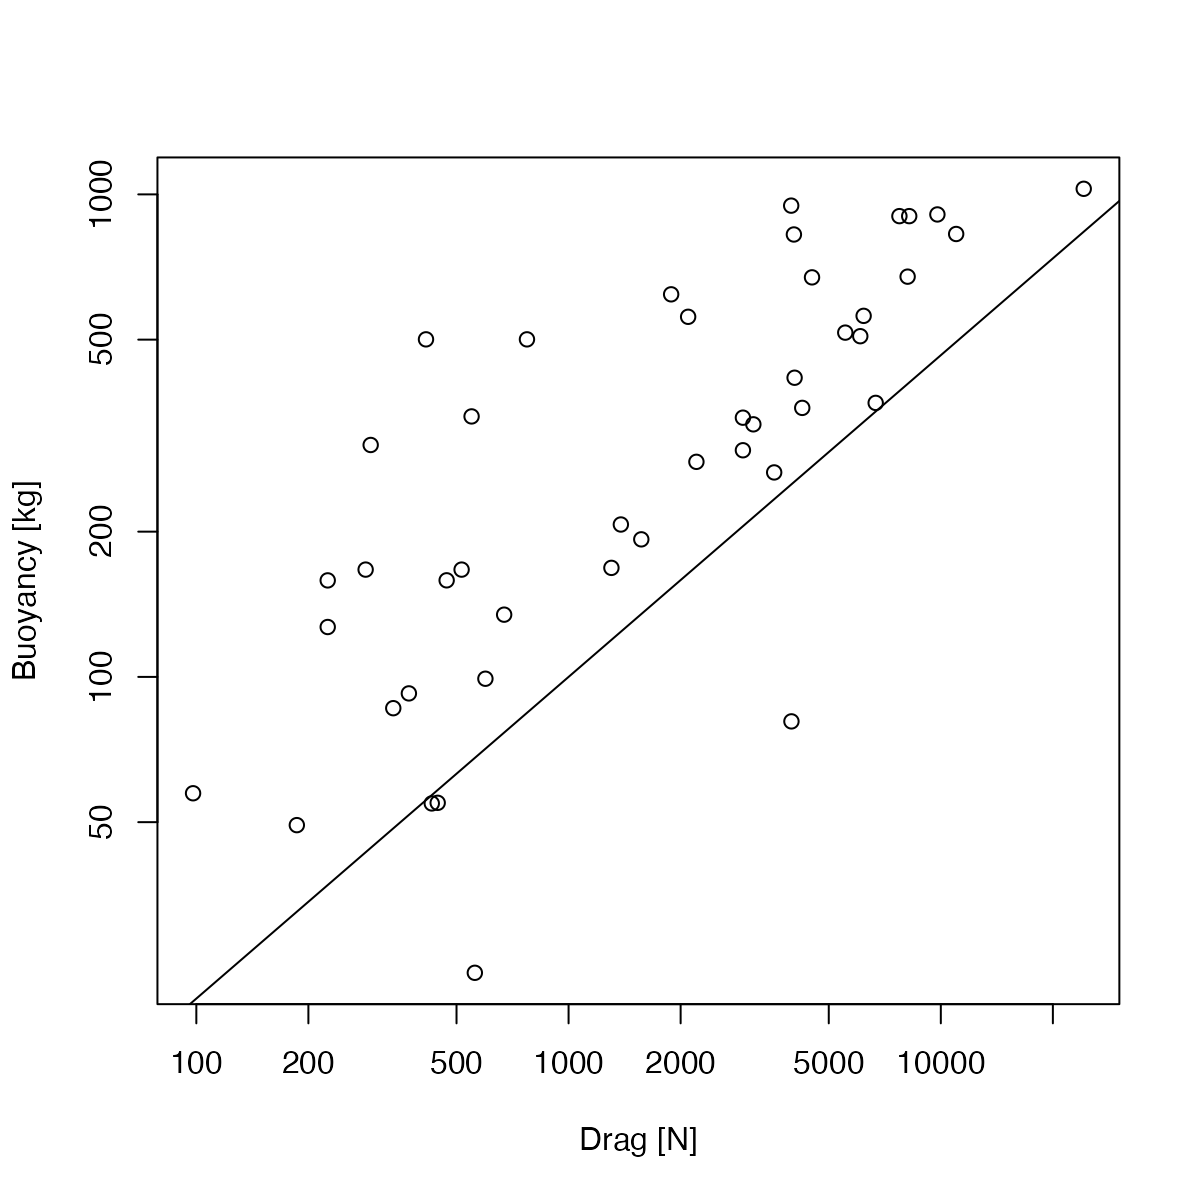
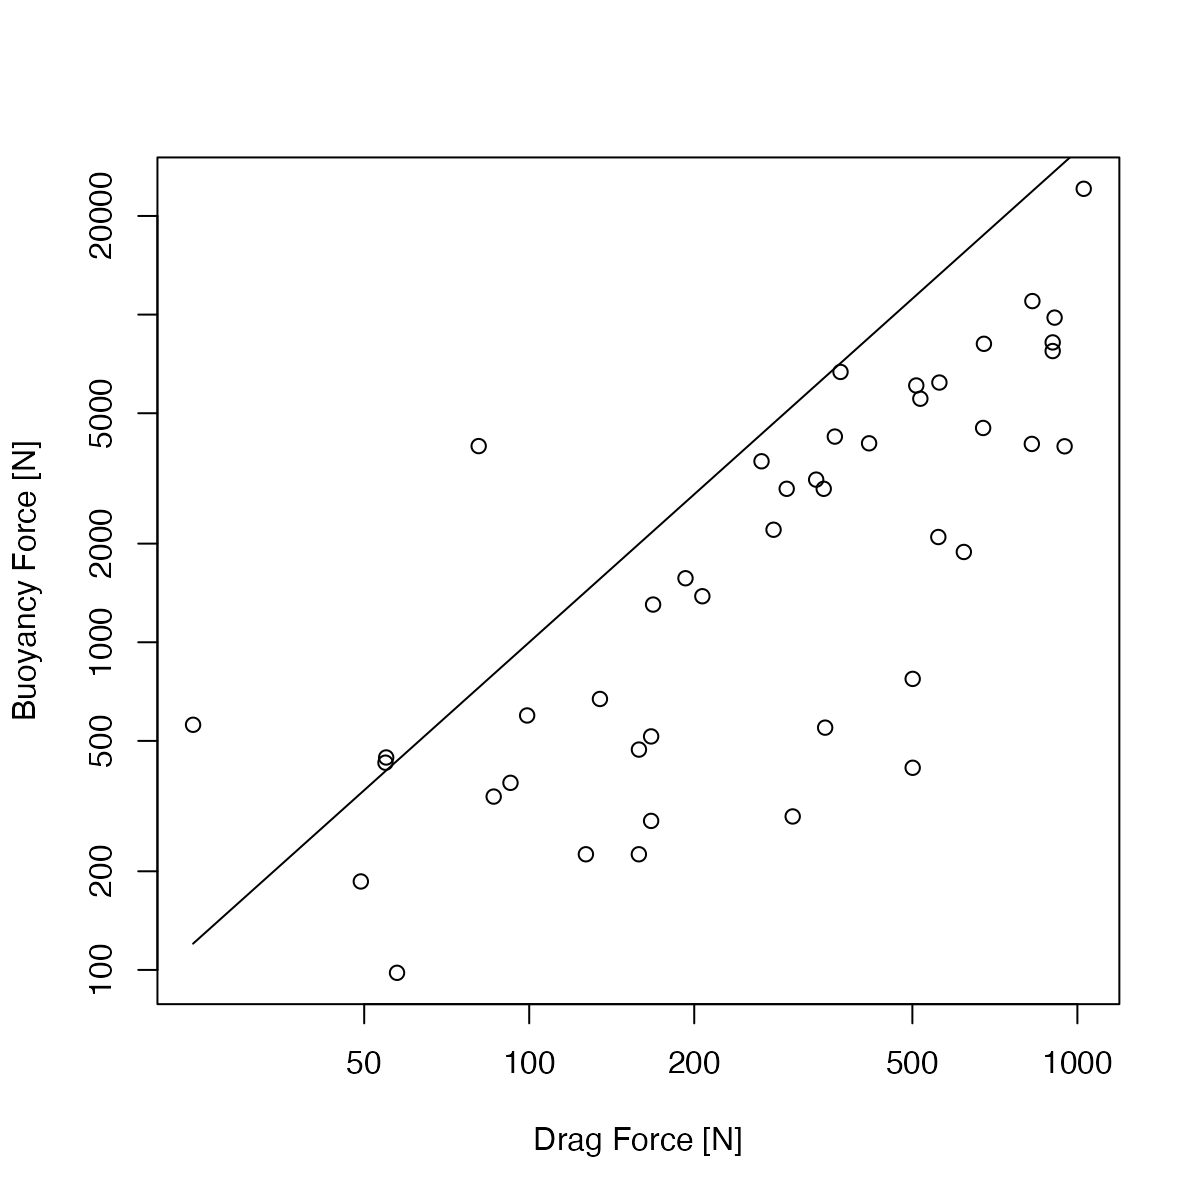
Built site for mooring: 0.1.0@6e5e470

diff --git a/articles/mooring.html b/articles/mooring.html
@@ -318,22 +318,25 @@
 </ol>
 <div class="sourceCode" id="cb19"><pre class="downlit sourceCode r">
 <code class="sourceCode R"><span class="co"># 1</span>
-<span class="va">f</span> <span class="op">&lt;-</span> <span class="fu"><a href="../reference/float.html">float</a></span><span class="op">(</span><span class="st">"?"</span><span class="op">)</span> <span class="co"># get list of floats</span>
-<span class="va">b</span> <span class="op">&lt;-</span> <span class="fu"><a href="https://rdrr.io/r/base/unlist.html">unlist</a></span><span class="op">(</span><span class="fu"><a href="https://rdrr.io/r/base/lapply.html">lapply</a></span><span class="op">(</span><span class="va">f</span>, <span class="kw">function</span><span class="op">(</span><span class="va">x</span><span class="op">)</span> <span class="fu"><a href="../reference/buoyancy.html">buoyancy</a></span><span class="op">(</span><span class="fu"><a href="../reference/float.html">float</a></span><span class="op">(</span><span class="va">x</span><span class="op">)</span><span class="op">)</span><span class="op">)</span><span class="op">)</span>
+<span class="kw"><a href="https://rdrr.io/r/base/library.html">library</a></span><span class="op">(</span><span class="va"><a href="https://dankelley.github.io/mooring/">mooring</a></span><span class="op">)</span>
+<span class="va">f</span> <span class="op">&lt;-</span> <span class="fu"><a href="../reference/float.html">float</a></span><span class="op">(</span><span class="st">"?"</span><span class="op">)</span>
+<span class="va">b</span> <span class="op">&lt;-</span> <span class="fl">9.8</span><span class="op">*</span><span class="fu"><a href="https://rdrr.io/r/base/unlist.html">unlist</a></span><span class="op">(</span><span class="fu"><a href="https://rdrr.io/r/base/lapply.html">lapply</a></span><span class="op">(</span><span class="va">f</span>, <span class="kw">function</span><span class="op">(</span><span class="va">x</span><span class="op">)</span> <span class="fu"><a href="../reference/buoyancy.html">buoyancy</a></span><span class="op">(</span><span class="fu"><a href="../reference/float.html">float</a></span><span class="op">(</span><span class="va">x</span><span class="op">)</span><span class="op">)</span><span class="op">)</span><span class="op">)</span> <span class="co"># mult. by g to get Newtons</span>
 <span class="va">d</span> <span class="op">&lt;-</span> <span class="fu"><a href="https://rdrr.io/r/base/unlist.html">unlist</a></span><span class="op">(</span><span class="fu"><a href="https://rdrr.io/r/base/lapply.html">lapply</a></span><span class="op">(</span><span class="va">f</span>, <span class="kw">function</span><span class="op">(</span><span class="va">x</span><span class="op">)</span> <span class="fu"><a href="../reference/drag.html">drag</a></span><span class="op">(</span><span class="fu"><a href="../reference/float.html">float</a></span><span class="op">(</span><span class="va">x</span><span class="op">)</span>, <span class="fl">1</span><span class="op">)</span><span class="op">)</span><span class="op">)</span>
 <span class="va">ok</span> <span class="op">&lt;-</span> <span class="va">b</span><span class="op">&gt;</span><span class="fl">0</span> <span class="op">&amp;</span> <span class="va">d</span><span class="op">&gt;</span><span class="fl">0</span>
 <span class="va">df</span> <span class="op">&lt;-</span> <span class="fu"><a href="https://rdrr.io/r/base/data.frame.html">data.frame</a></span><span class="op">(</span>float<span class="op">=</span><span class="va">f</span><span class="op">[</span><span class="va">ok</span><span class="op">]</span>, drag<span class="op">=</span><span class="va">d</span><span class="op">[</span><span class="va">ok</span><span class="op">]</span>, buoyancy<span class="op">=</span><span class="va">b</span><span class="op">[</span><span class="va">ok</span><span class="op">]</span><span class="op">)</span>
 <span class="co"># 2</span>
-<span class="fu"><a href="https://rdrr.io/r/graphics/plot.default.html">plot</a></span><span class="op">(</span><span class="va">df</span><span class="op">$</span><span class="va">buoyancy</span><span class="op">*</span><span class="fl">9.8</span>, <span class="va">df</span><span class="op">$</span><span class="va">drag</span>, xlab<span class="op">=</span><span class="st">"Drag [N]"</span>, ylab<span class="op">=</span><span class="st">"Buoyancy [kg]"</span>, log<span class="op">=</span><span class="st">"xy"</span><span class="op">)</span>
+<span class="fu"><a href="https://rdrr.io/r/graphics/plot.default.html">plot</a></span><span class="op">(</span><span class="va">df</span><span class="op">$</span><span class="va">drag</span>, <span class="va">df</span><span class="op">$</span><span class="va">buoyancy</span>, xlab<span class="op">=</span><span class="st">"Drag Force [N]"</span>, ylab<span class="op">=</span><span class="st">"Buoyancy Force [N]"</span>, log<span class="op">=</span><span class="st">"xy"</span><span class="op">)</span>
 <span class="co"># 3</span>
-<span class="fu"><a href="https://rdrr.io/r/graphics/abline.html">abline</a></span><span class="op">(</span><span class="fl">0</span>, <span class="fl">2</span><span class="op">/</span><span class="fl">3</span><span class="op">)</span></code></pre></div>
+<span class="va">drag</span> <span class="op">&lt;-</span> <span class="fu"><a href="https://rdrr.io/r/base/seq.html">seq</a></span><span class="op">(</span><span class="fu"><a href="https://rdrr.io/r/base/Extremes.html">min</a></span><span class="op">(</span><span class="va">df</span><span class="op">$</span><span class="va">drag</span><span class="op">)</span>, <span class="fu"><a href="https://rdrr.io/r/base/Extremes.html">max</a></span><span class="op">(</span><span class="va">df</span><span class="op">$</span><span class="va">drag</span><span class="op">)</span>, length.out<span class="op">=</span><span class="fl">100</span><span class="op">)</span>
+<span class="va">buoyancy</span> <span class="op">&lt;-</span> <span class="va">drag</span><span class="op">^</span><span class="op">(</span><span class="fl">3</span><span class="op">/</span><span class="fl">2</span><span class="op">)</span>
+<span class="fu"><a href="https://rdrr.io/r/graphics/lines.html">lines</a></span><span class="op">(</span><span class="va">drag</span>, <span class="va">buoyancy</span><span class="op">)</span></code></pre></div>
 <div class="figure" style="text-align: center">
 <img src="mooring_files/figure-html/unnamed-chunk-16-1.png" alt="**Float drag-buoyancy relationship.**" width="600"><p class="caption">
 <strong>Float drag-buoyancy relationship.</strong>
 </p>
 </div>
-<p>From the plot, it appears that there is at least some merit to the assumptions outlined.</p>
-<p>This sort of analysis can be useful in building intuition. Note that larger floats have higher drag than small ones, which would seem to increase knockdown, but they also have <em>much</em> larger buoyancy. This is why large floats are needed for taut moorings in high-current areas, or, of course, to suspend long mooring lines.</p>
+<p>The data cloud slope is similar to that of the indicated scaling line, created by assuming that drag is proportional to scale squared, while buoyancy is proportional to scale cubed. (Other factors are involved, so only the slope is of significance here.)</p>
+<p>Much can be learned from computations of this sort. For example, it reveals why large floats are better at producing taut moorings: the buoyancy force is proportional to a higher power of scale than is the drag force. It also explains why advanced floats are designed to have lower drag coefficients, but that is another matter!</p>
 </div>
 <div id="exercise-3" class="section level2">
 <h2 class="hasAnchor">

diff --git a/index.html b/index.html
@@ -92,7 +92,7 @@
 <a href="#mooring" class="anchor"></a>mooring</h1></div>
 <!-- badges: start -->
 
-<!-- badges: end -->
+<p><a href="https://codecov.io/gh/dankelley/mooring?branch=main"><img src="https://codecov.io/gh/dankelley/mooring/branch/main/graph/badge.svg" alt="Codecov test coverage"></a> <!-- badges: end --></p>
 <p>The goal of mooring is to facilitate computations of the extent of ‘knockdown’ of oceanographic moorings caused by ocean currents.</p>
 <div id="installation" class="section level2">
 <h2 class="hasAnchor">
@@ -108,7 +108,6 @@
 <p>This following shows how to assess the knockdown of a 20-inch float atop 100m of wire in a 0.5 m/s (roughly 1-knot) current. As an exercise, try increasing the current to 1 m/s to see how much further the float gets knocked down. Then try some other float types, using <code><a href="reference/float.html">float("?")</a></code> to get a list of the types that are supported.</p>
 <div class="sourceCode" id="cb2"><pre class="downlit sourceCode r">
 <code class="sourceCode R"><span class="kw"><a href="https://rdrr.io/r/base/library.html">library</a></span><span class="op">(</span><span class="va"><a href="https://dankelley.github.io/mooring/">mooring</a></span><span class="op">)</span>
-<span class="co">#&gt; Loading required package: shiny</span>
 <span class="co"># Design a mooring with a 20-inch float attached to a bottom anchor with 100m of wire cable.</span>
 <span class="va">m</span> <span class="op">&lt;-</span> <span class="fu"><a href="reference/mooring.html">mooring</a></span><span class="op">(</span><span class="fu"><a href="reference/anchor.html">anchor</a></span><span class="op">(</span>depth<span class="op">=</span><span class="fl">120</span><span class="op">)</span>, <span class="fu"><a href="reference/wire.html">wire</a></span><span class="op">(</span>length<span class="op">=</span><span class="fl">100</span><span class="op">)</span>, <span class="fu"><a href="reference/float.html">float</a></span><span class="op">(</span><span class="st">"HMB 20"</span><span class="op">)</span><span class="op">)</span>
 <span class="fu"><a href="https://rdrr.io/r/graphics/par.html">par</a></span><span class="op">(</span>mfrow<span class="op">=</span><span class="fu"><a href="https://rdrr.io/r/base/c.html">c</a></span><span class="op">(</span><span class="fl">1</span>,<span class="fl">2</span><span class="op">)</span><span class="op">)</span>
